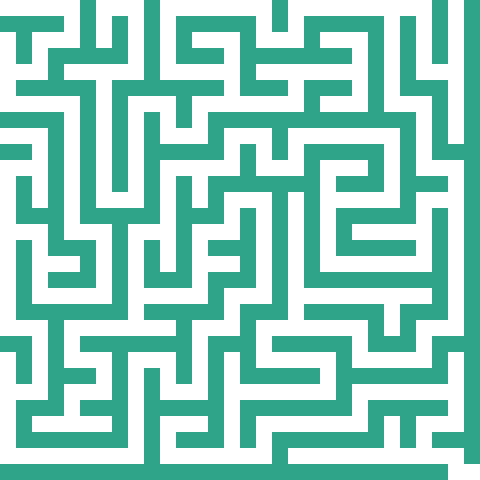
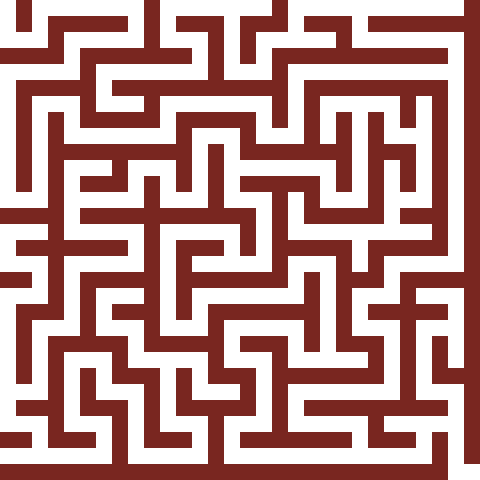
Updated README.md

diff --git a/src/main/java/Root/controller/MazeController.java b/src/main/java/Root/controller/MazeController.java
@@ -142,7 +142,7 @@ public class MazeController {
 
                 if (freshlyDownloadedImage != null) {
                     // Pass fresh image directly to decoder
-                    MazeDecoder decoder = new MazeDecoder(this.mazeModel.getMazeHeight(), this.mazeModel.getMazeWidth());
+                    MazeDecoder decoder = new MazeDecoder(this.mazeModel.getMazeWidth(), this.mazeModel.getMazeHeight());
                     Position[][] dynamicPositions = decoder.getPositionsFromImage(freshlyDownloadedImage);
 
                     // Update model matrices

diff --git a/README.md b/README.md
@@ -55,6 +55,17 @@ Before anything cool happens, you need to tell the app how big of a maze you wan
 
 *Once clicked, the background threads wake up and do the heavy lifting while you sit back and enjoy the show.*
 
+<details>
+  <summary><h3 style="display: inline;">🎬 Proof That It Actually Works (App Demo inside)</h3></summary>
+
+  <p align="center">
+    <img src="readme-images/API_Maze_Solver_Start_App_GIF.gif" width="600" alt="Start App"><br><br>
+    <img src="readme-images/API_Maze_Solver_Configurations_GIF.gif" width="600" alt="Configurations"><br><br>
+    <img src="readme-images/API_Maze_Solver_Solving_Maze_GIF.gif" width="600" alt="Solving Maze">
+  </p>
+
+</details>
+
 ### 🖥️ UI Layout & Controls
 
 The interface keeps things simple by breaking the window into just two main layout panels, complete with a clean FlatLaf styling.